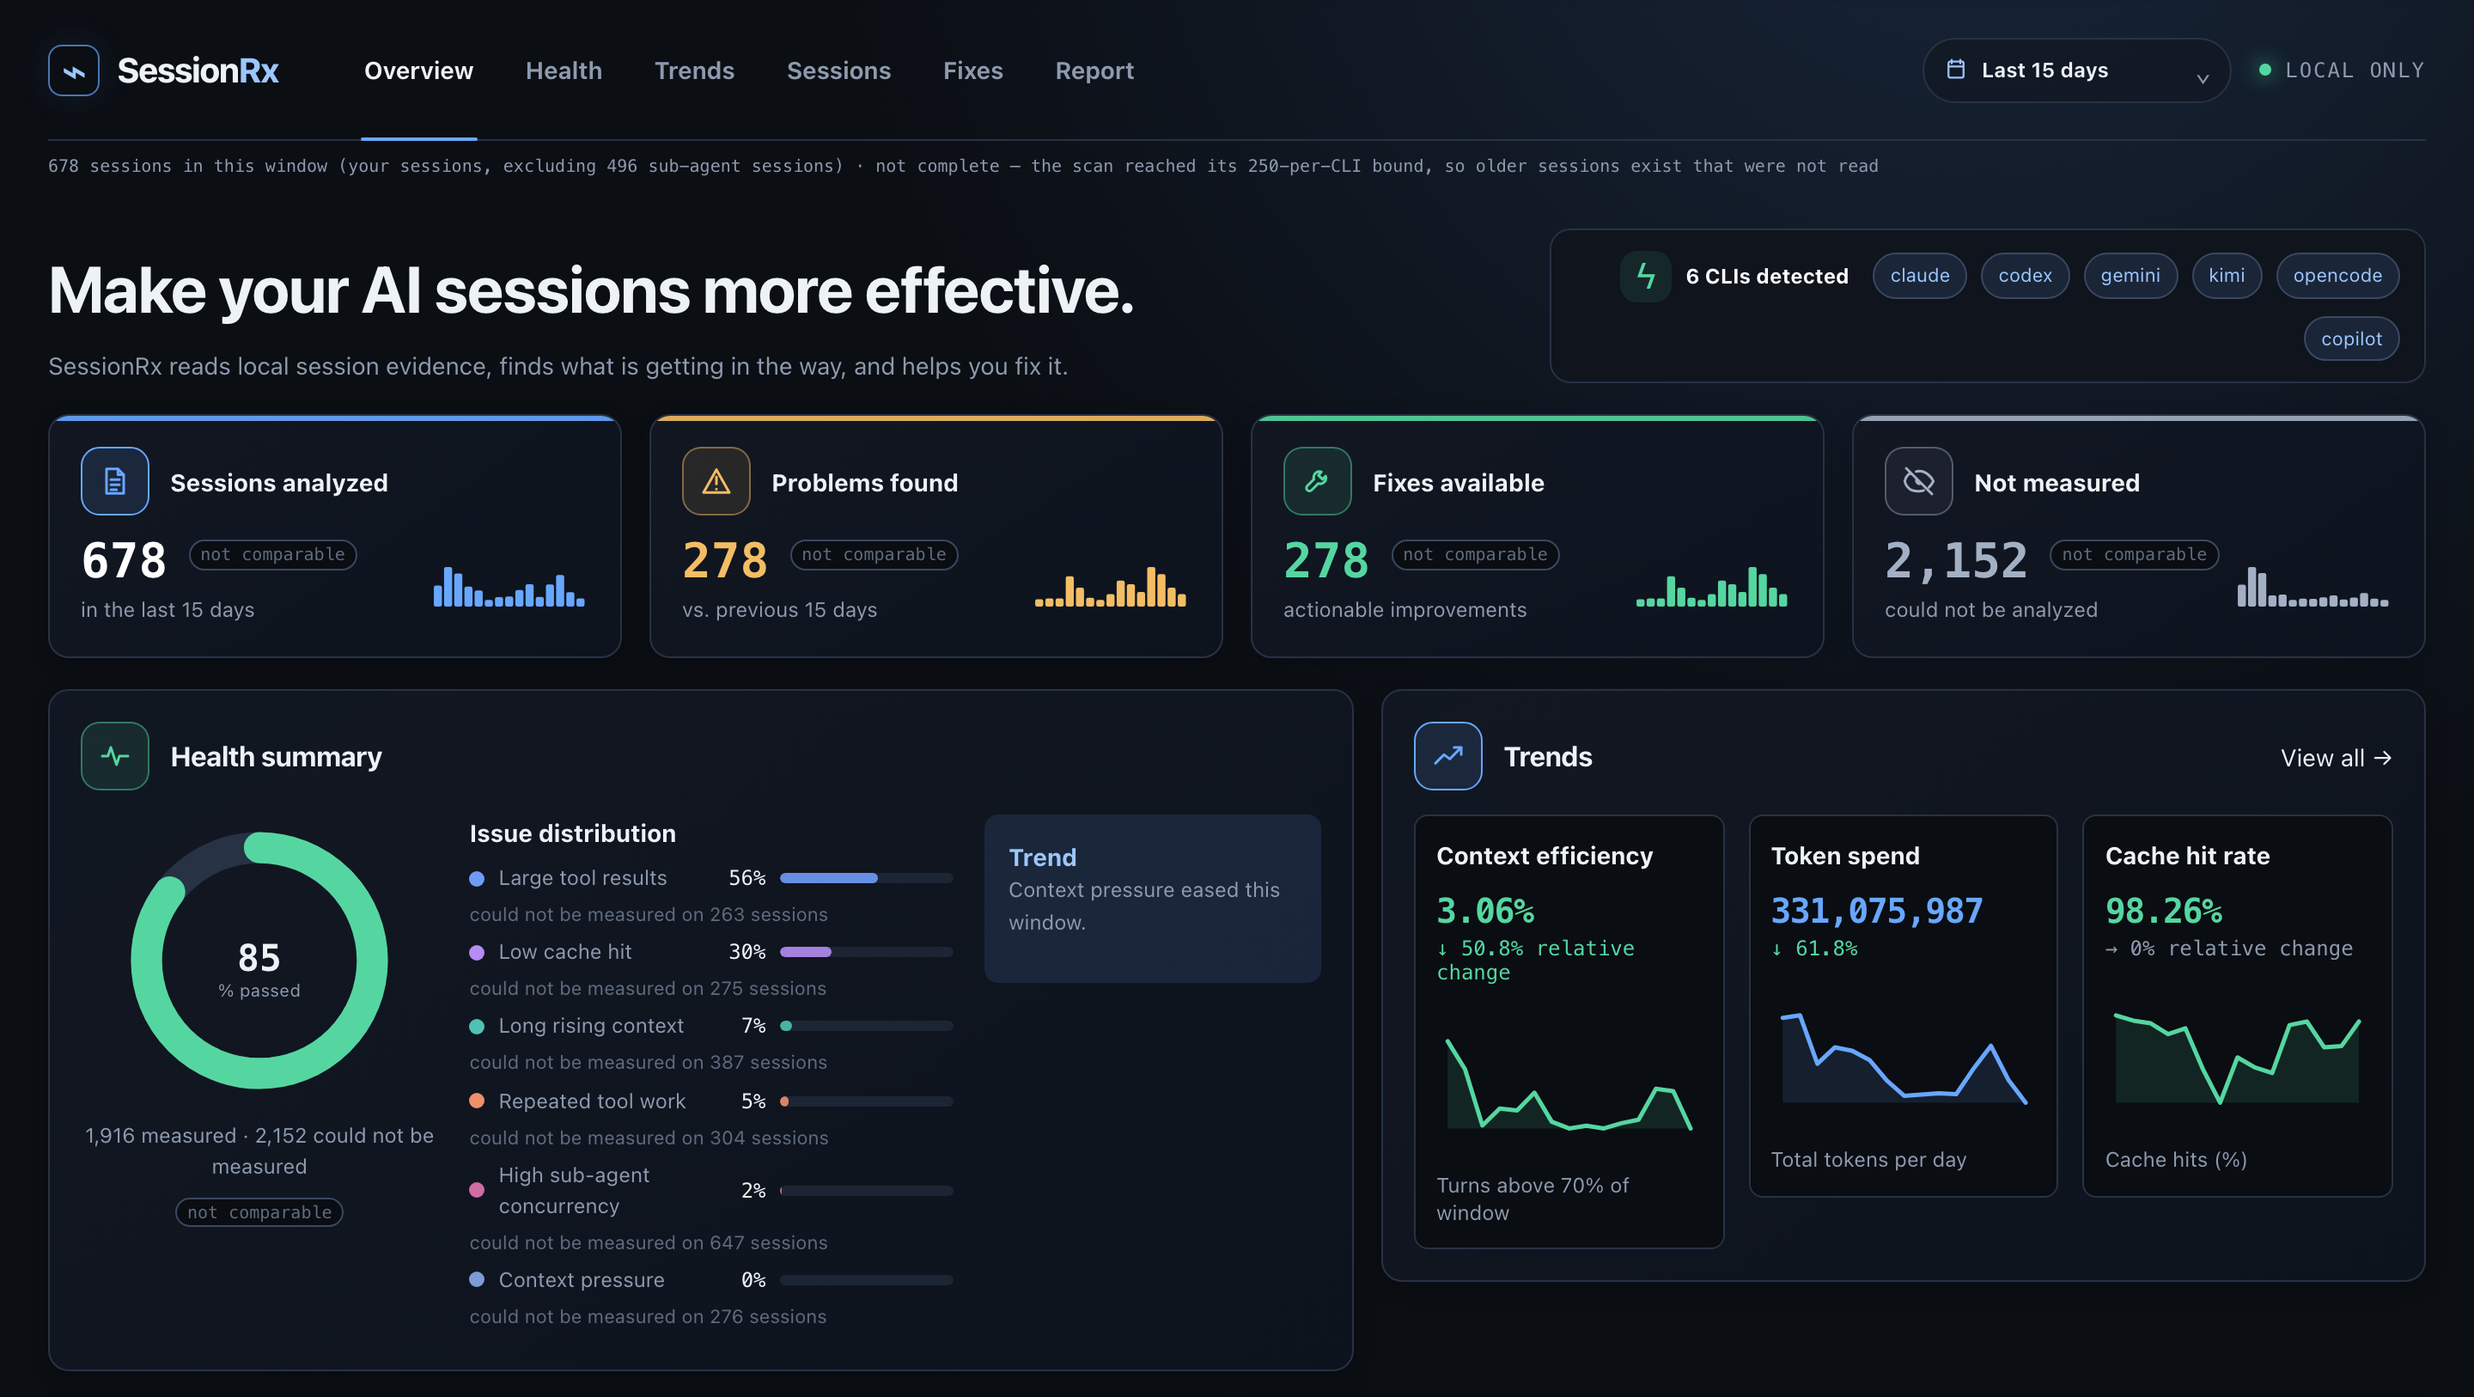
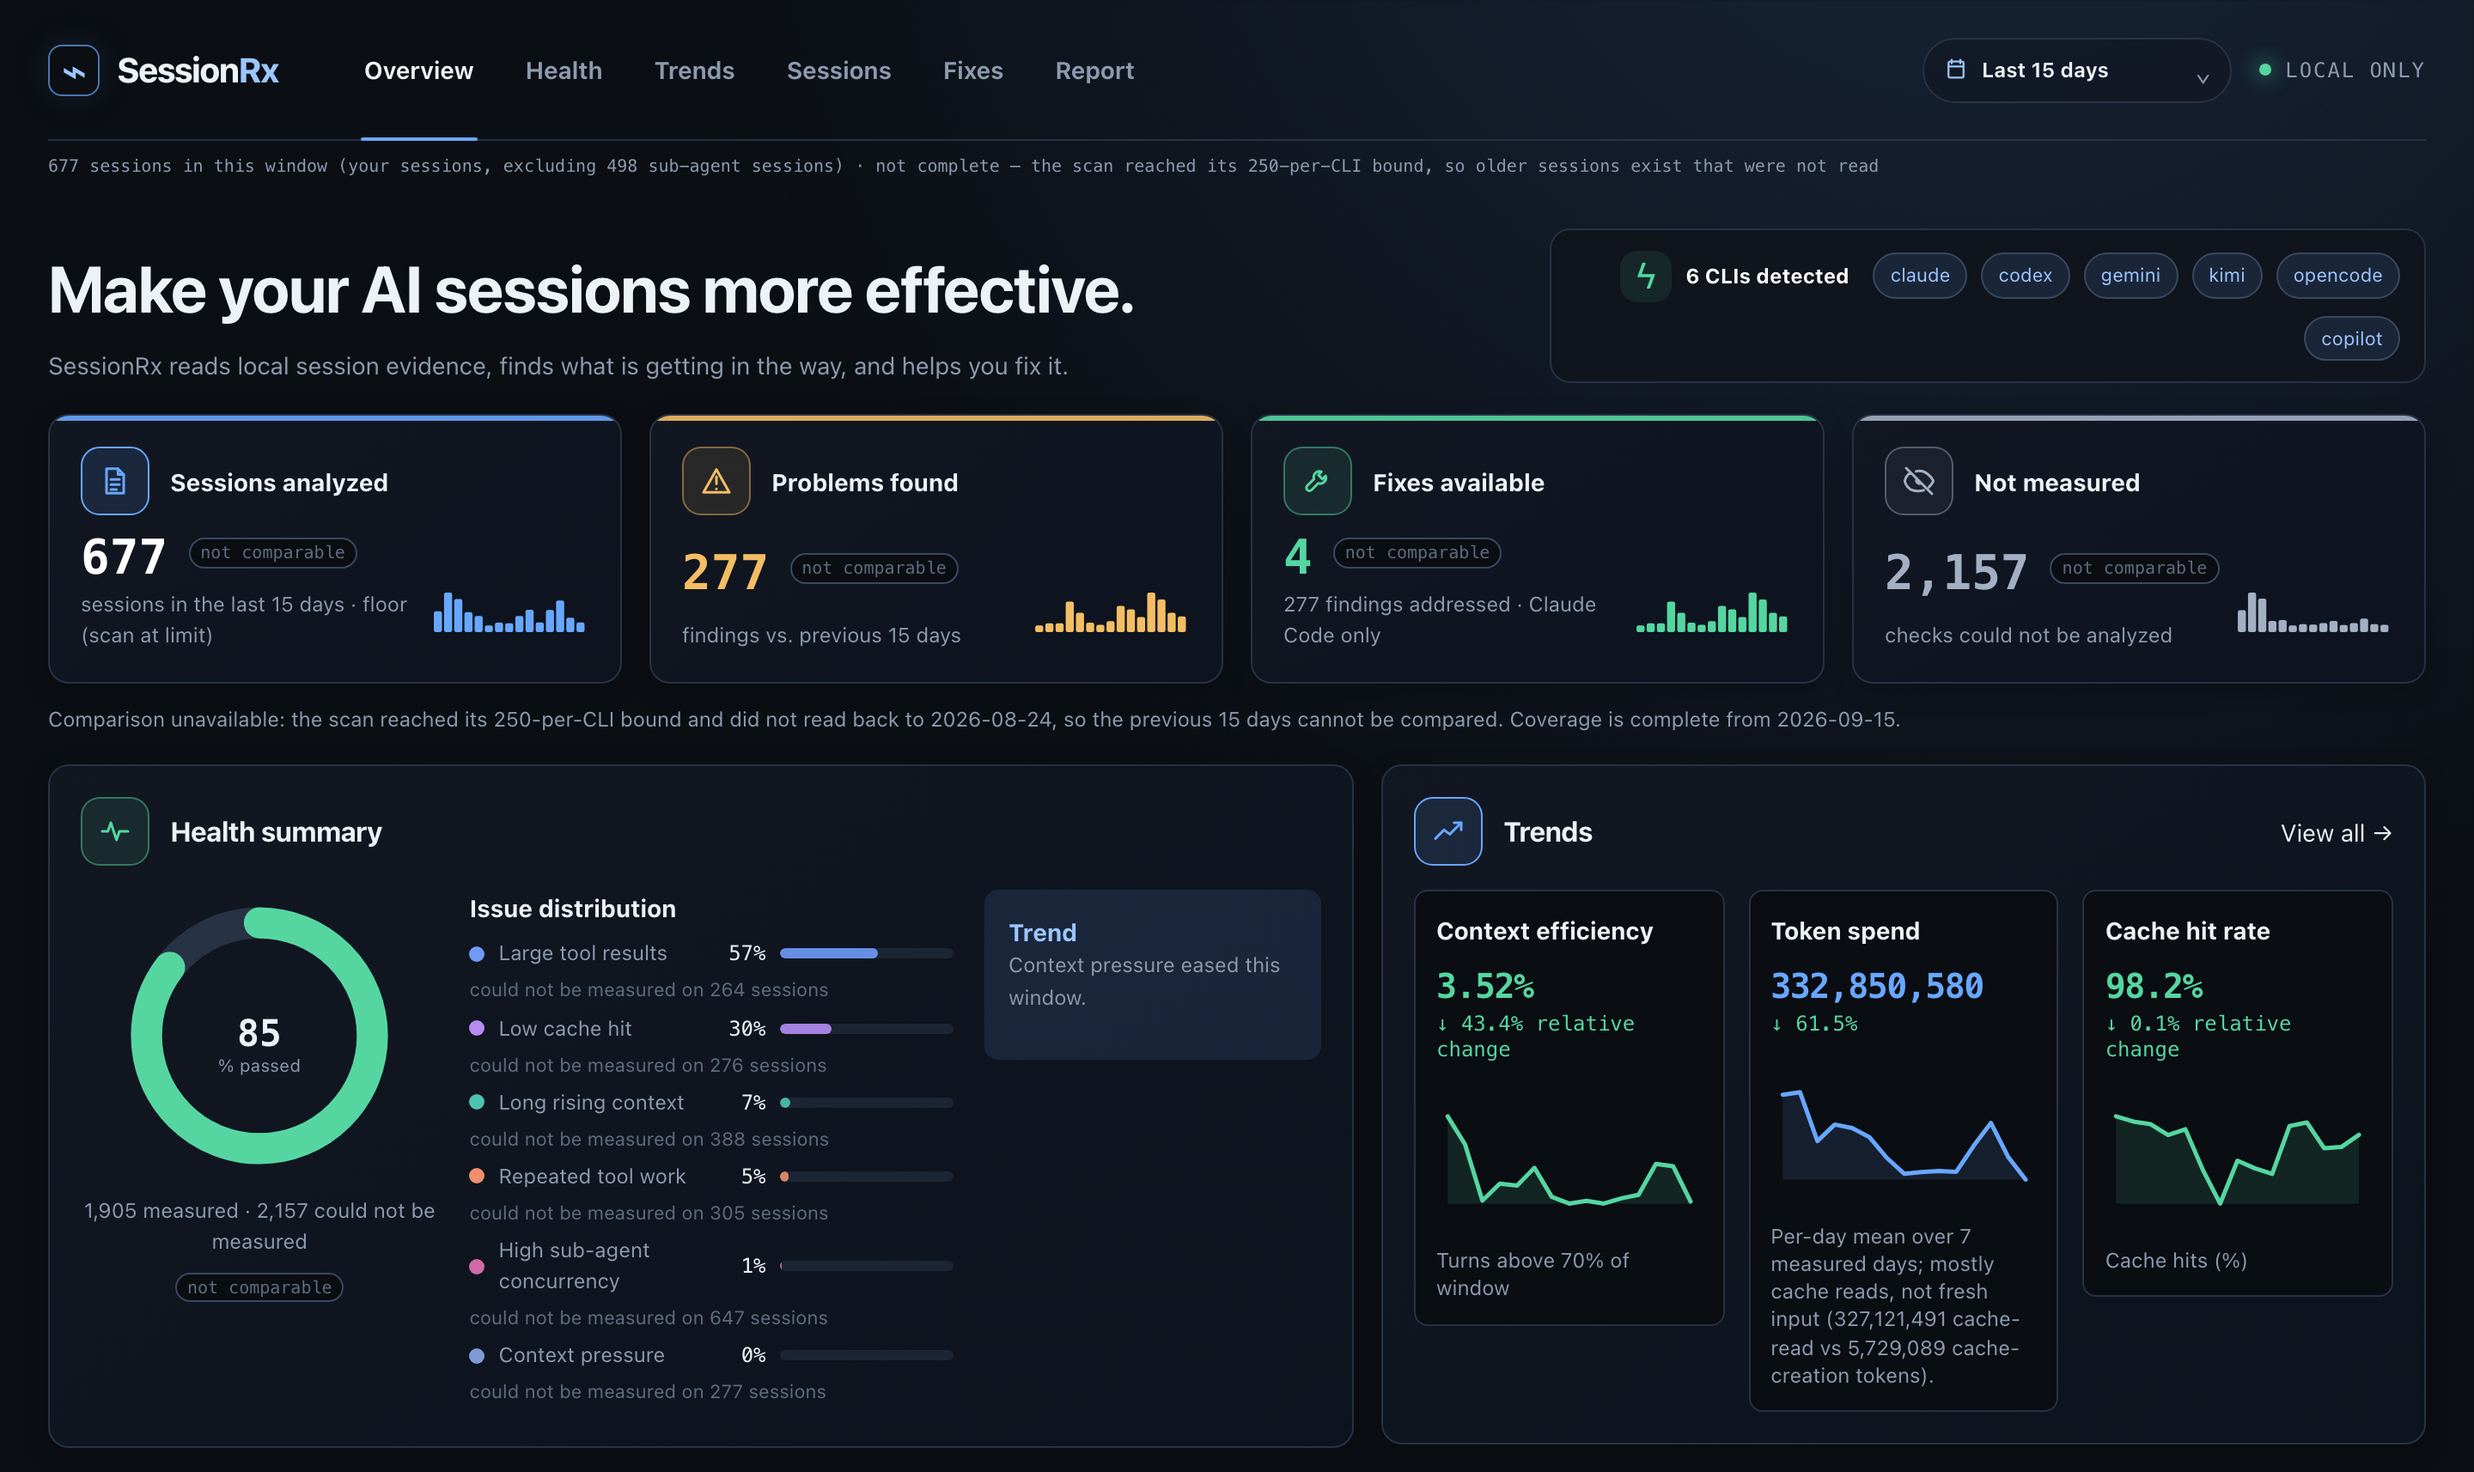
[session-rx] docs: the release notes and the hero caught up with the product
CHANGELOG 0.1.2 was missing everything the outside review produced — ten fixed
entries covering the green pill on unmeasured sessions, the badge denominator,
the support/installed split, the four hero cards, the removed rank badges, the
Node 22 startup warning, and the syntax error that hid 64 tests. Extended from
the commit record, and the test count corrected to 878 across Node 22.23.2 and
Node 26.7.0.

Both screenshots recaptured. The hero's alt text is now written WITHOUT hardcoded
figures: the previous version said "86% of measured checks passed with 2,152 that
could not be measured", and those numbers move with every scan, so the sentence
was guaranteed to drift out of date and describe a picture that no longer exists.
It now names what is on screen — the floor marker, the units, the Claude-only
scope, and the unmeasured count held outside the donut — without asserting any
value a reader can check against the image and find wrong.

DISCLOSED: the alt-text sentence was written by me rather than delegated. It is
one string, and the reason it changed is that hardcoding measurements into prose
is the mistake this project keeps catching elsewhere. The CHANGELOG entries were
written by a Haiku worker from the commit record; it reported, correctly, that
two items I listed were already covered in the existing Changed section and
declined to duplicate them.

Claude-Session: https://claude.ai/code/session_011AEswVNAHWbEx8BY2QCMBL

diff --git a/CHANGELOG.md b/CHANGELOG.md
@@ -23,6 +23,16 @@ and this project adheres to [Semantic Versioning](https://semver.org/spec/v2.0.0
 
 ### Fixed
 
+- **A green "No problems" pill rendered on sessions where checks could not run.** Over 1,000 real sessions, 587 rows displayed it and 583 of those had at least one unmeasured check; 268 had zero checks pass. The verdict honours the honesty contract (unknown is never a pass), but the table did not. Sessions now show three distinct states: a pass only when no checks are unknown, an observed problem when findings exist, or an unmeasured state when unknown checks exist, with a count of how many of how many could not be measured.
+- **The session health badge computed a wrong denominator and disagreed between pages.** The Sessions table computed `passed/(total - unknown)` and rendered `4/5 measured` while the Health page computed the same session as `4/6`. The badge now uses the API's own `score.label` string, computed once and shared across all components, eliminating the discrepancy.
+- **Four summary cards lacked unit words, causing a count of checks to read as a count of sessions.** Cards now explicitly label their units: "sessions", "findings", "findings", and "checks".
+- **The token-spend card printed a per-day mean to nine significant figures under the caption "Total tokens per day", hiding the fact that ~99% of it was cache re-reads.** The card now states it is a per-day mean over N measured days, separates cache-read tokens from fresh input, and renders both values.
+- **The "Sessions analyzed" card presented a scan-limited floor as fact.** When the scan has reached its per-CLI limit and cannot read further back, the card now discloses this on its own face.
+- **"Fixes available" showed the same count as "Problems found" (both 277) because every rule carries a fix, obscuring which improvements SessionRx can actually offer.** The card now shows the count of distinct fixes (4), notes how many findings they address (277), and states that all fixes write to Claude Code's config, not the other CLI mentioned in a finding.
+- **`distinctFixes` counted fix ids with no implementation behind them.** The count is now bounded by the real fix catalogue; a finding whose fix id is unknown stays an observed finding but no longer claims a remedy exists.
+- **"High rank" / "Medium rank" / "Low rank" severity badges on Top fixes were assigned from list position and displayed as a judgement.** These badges have been removed.
+- **A missing bracket in `tests/frontend-contract.test.js` left the test file unable to parse, silently hiding 64 tests.** The bracket is restored; the test suite now correctly reports all assertions.
+- **On Node 22, the first line printed was Node's own SQLite ExperimentalWarning, making SessionRx appear experimental.** The warning is now suppressed for SQLite only via scoped filtering; all other warnings continue to reach the user.
 - **A chart invented its own data from a loop index.** The Fix page's "Occurrences in recent sessions" chart set bar heights from a for-loop counter — seven bars, fixed heights, unrelated to any measurement. This was the most serious bug in this release on the one tool whose whole claim is that it never shows a figure it cannot justify. The chart now draws real per-day counts from each finding's session start time. Where no session carries a start time it says so instead of drawing anything.
 - An internal rule identifier like `BP-003.04` escaped into user-facing body text. These ids are deliberate in the analyzer as evidence of record and render only inside collapsed evidence sections; they do not appear in prose a reader sees by default.
 - With only two days in range, the occurrence histogram drew two bars each as wide as the card. Bar width is now capped.
@@ -32,7 +42,7 @@ and this project adheres to [Semantic Versioning](https://semver.org/spec/v2.0.0
 ### Repository (not shipped in the npm package)
 
 - README screenshots recaptured against the redesigned interface: new Overview page image, and replacement Health page showing one real session carrying all three verdicts at once.
-- Test suite: 828 passing, 0 failing.
+- Test suite verified on Node 22.23.2 and Node 26.7.0: 878 passing, 0 failing.
 
 ## [0.1.1] - 2026-09-21
 

diff --git a/README.md b/README.md
@@ -32,7 +32,7 @@ large tool results, long rising context, and sub-agent concurrency. A date-range
 selector in the header lets you filter results by the last 15 days, 30 days, 3
 months, or all time without changing the verdicts.
 
-![Overview showing a Last 15 days range selector, a line stating the window holds 678 sessions and that the scan was not complete, six detected CLIs, summary cards for sessions analyzed, problems found, fixes available and checks that could not be measured — each delta reading "not comparable" because the scan did not reach back far enough — and a Health summary beside Trends, the donut showing 86% of measured checks passed with 2,152 that could not be measured, and an issue distribution listing every check with the number of sessions it could not be measured on](https://raw.githubusercontent.com/ai-meharbnsingh/session-rx/main/docs/assets/screenshot-overview.png)
+![Overview showing a date-range selector, a line stating how many sessions the window holds and that the scan was not complete, the CLIs detected on this machine, and four summary cards — sessions analyzed marked as a floor because the scan hit its limit, problems found, distinct fixes available noted as Claude Code only, and checks that could not be measured — each with its unit named and its comparison marked not comparable, above a Health summary beside Trends showing the share of measured checks that passed with the unmeasured count kept outside it](https://raw.githubusercontent.com/ai-meharbnsingh/session-rx/main/docs/assets/screenshot-overview.png)
 
 ### Every check returns one of three answers
 
